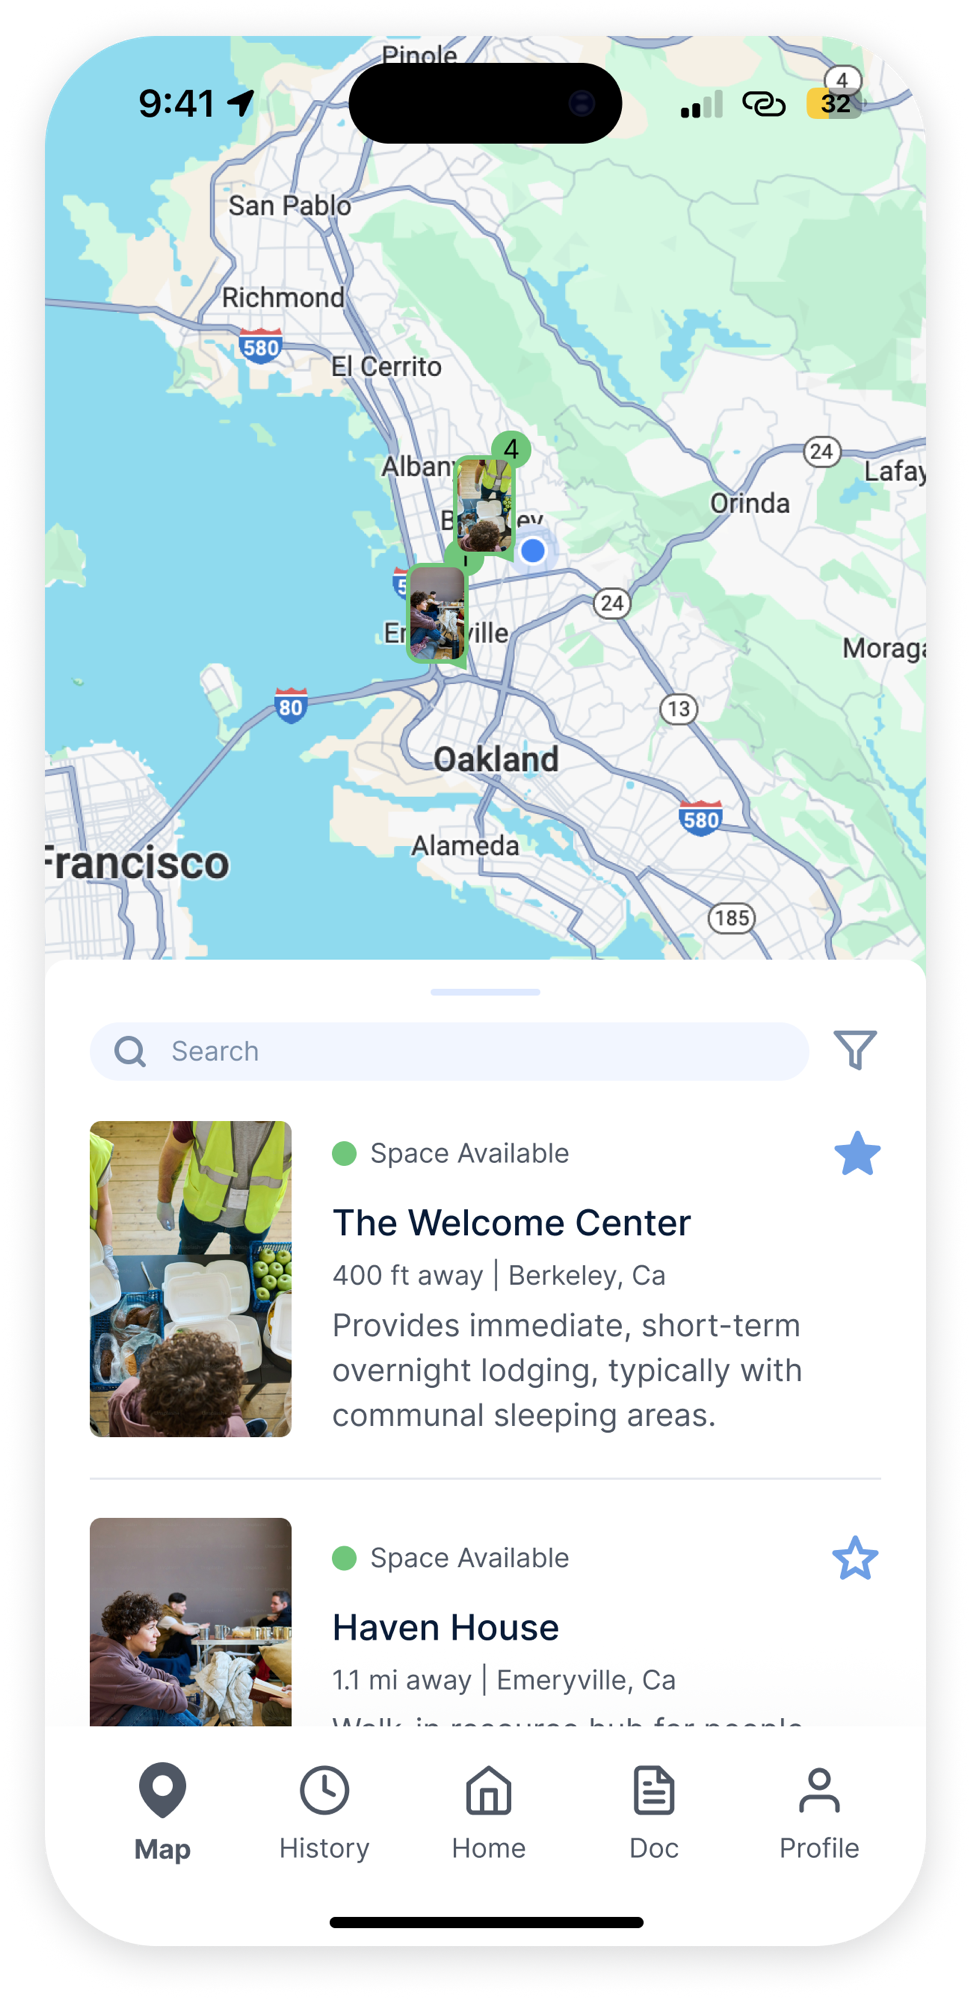
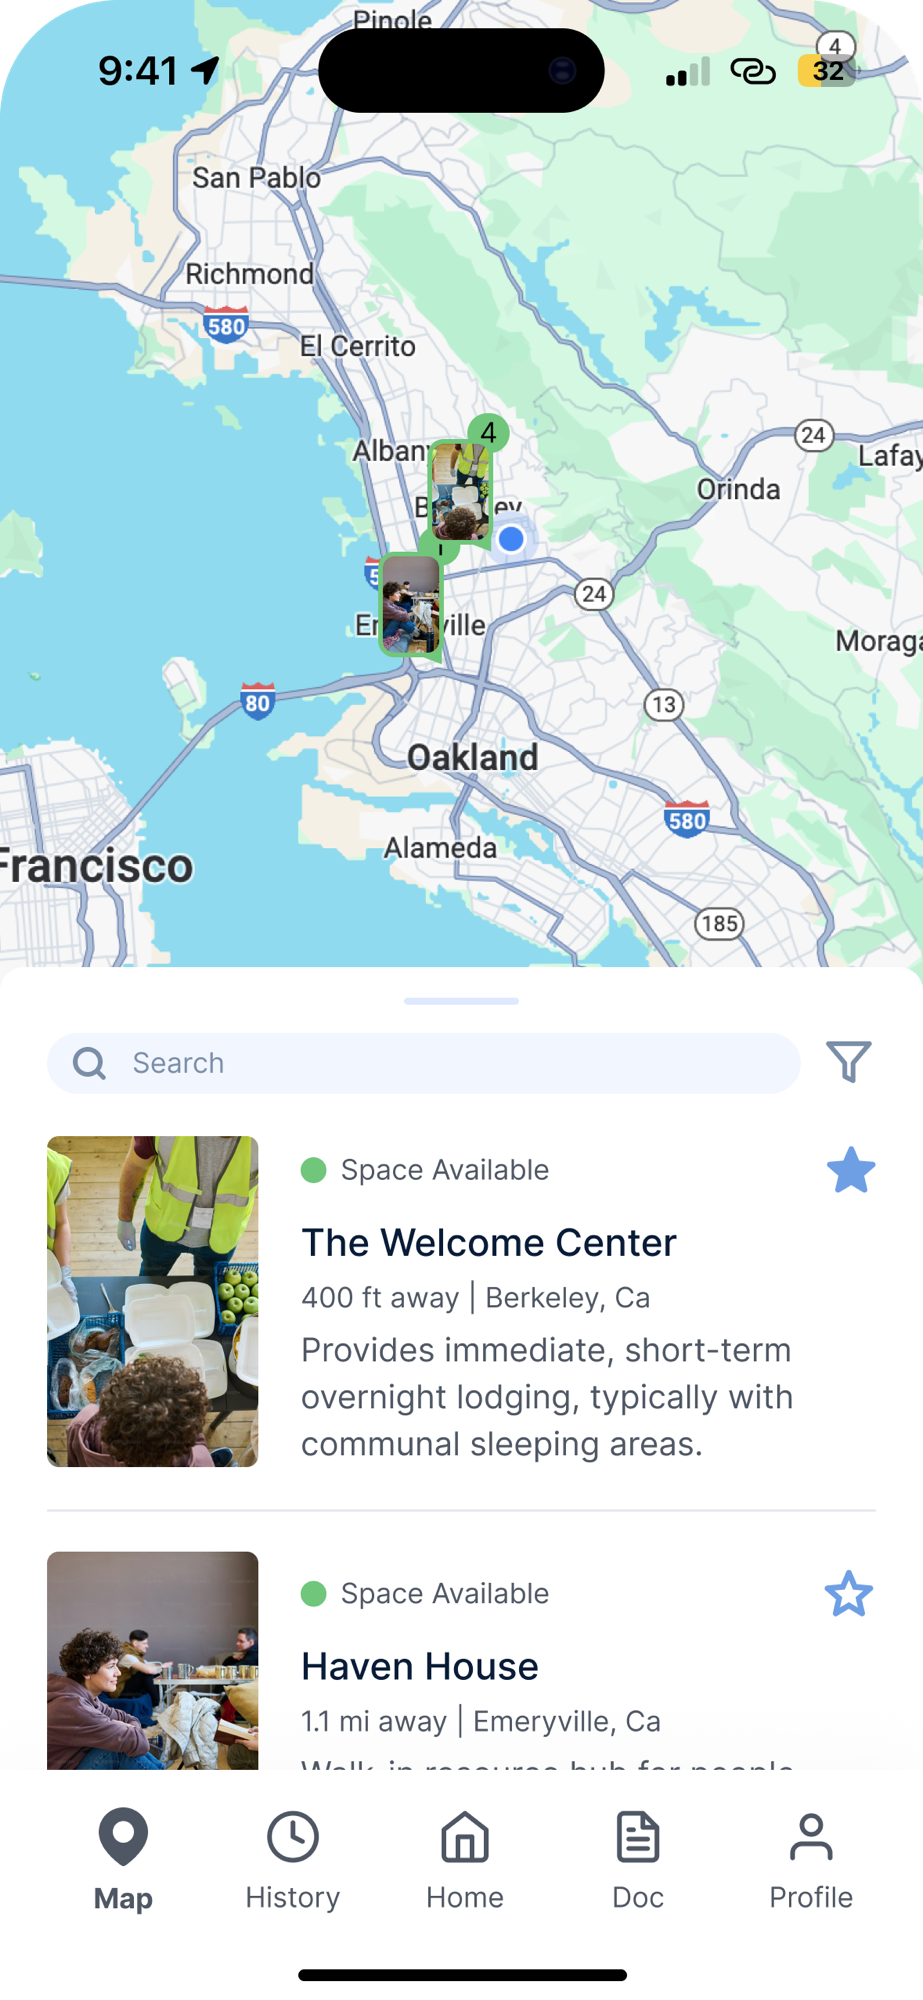
Replace IDbridge map image and add carousel thumbnails to case studies
- Replaced idbridge-map.png with new map screen showing housing resources
- Added Design Screens section to IDbridge case study with all 4 screens
- Added Design Screens section to MyShake case study with all 3 screens
- Images displayed in grid layout with descriptive labels

diff --git a/src/IDBridgeCaseStudy.tsx b/src/IDBridgeCaseStudy.tsx
@@ -16,6 +16,10 @@ import {
 } from "./components/caseStudy/CaseStudyKit";
 import IconHighlight from "./components/caseStudy/IconHighlight";
 import { CaseStudyShell, type CaseSection } from "./components/caseStudy/CaseStudyShell";
+import idbridgeThumbnail from "./assets/idbridge-thumbnail.png";
+import idbridgeDocuments from "./assets/idbridge-documents.png";
+import idbridgeHistory from "./assets/idbridge-history.png";
+import idbridgeMap from "./assets/idbridge-map.png";
 
 const SECTIONS: CaseSection[] = [
   { id: "intro", label: "Intro" },
@@ -500,6 +504,28 @@ const IDBridgeCaseStudy: FC = () => {
               <div style={{ fontFamily: tokens.font.sans, fontSize: "13px", color: tokens.color.body, lineHeight: 1.5 }}>
                 Bus routes and maps work without data connection.
               </div>
+            </div>
+          </div>
+        </Reveal>
+
+        <Callout>Design Screens</Callout>
+        <Reveal>
+          <div style={{ display: "grid", gridTemplateColumns: "repeat(4, 1fr)", gap: 16, marginBottom: 32 }}>
+            <div style={{ display: "flex", flexDirection: "column", gap: 12 }}>
+              <img src={idbridgeThumbnail} alt="Home screen" style={{ width: "100%", height: "auto", borderRadius: tokens.radius.md, border: `1px solid ${tokens.color.cardBorder}` }} />
+              <span style={{ fontFamily: tokens.font.sans, fontSize: "13px", fontWeight: tokens.weight.medium, color: tokens.color.body, textAlign: "center" }}>Home</span>
+            </div>
+            <div style={{ display: "flex", flexDirection: "column", gap: 12 }}>
+              <img src={idbridgeDocuments} alt="Documents screen" style={{ width: "100%", height: "auto", borderRadius: tokens.radius.md, border: `1px solid ${tokens.color.cardBorder}` }} />
+              <span style={{ fontFamily: tokens.font.sans, fontSize: "13px", fontWeight: tokens.weight.medium, color: tokens.color.body, textAlign: "center" }}>Documents</span>
+            </div>
+            <div style={{ display: "flex", flexDirection: "column", gap: 12 }}>
+              <img src={idbridgeHistory} alt="History screen" style={{ width: "100%", height: "auto", borderRadius: tokens.radius.md, border: `1px solid ${tokens.color.cardBorder}` }} />
+              <span style={{ fontFamily: tokens.font.sans, fontSize: "13px", fontWeight: tokens.weight.medium, color: tokens.color.body, textAlign: "center" }}>History</span>
+            </div>
+            <div style={{ display: "flex", flexDirection: "column", gap: 12 }}>
+              <img src={idbridgeMap} alt="Map screen" style={{ width: "100%", height: "auto", borderRadius: tokens.radius.md, border: `1px solid ${tokens.color.cardBorder}` }} />
+              <span style={{ fontFamily: tokens.font.sans, fontSize: "13px", fontWeight: tokens.weight.medium, color: tokens.color.body, textAlign: "center" }}>Map</span>
             </div>
           </div>
         </Reveal>

diff --git a/src/MyShakeCaseStudy.tsx b/src/MyShakeCaseStudy.tsx
@@ -36,6 +36,8 @@ import DesignPrinciples from "./components/caseStudy/DesignPrinciples";
 import { useInView } from "./components/caseStudy/useInView";
 import { CaseStudyShell, type CaseSection } from "./components/caseStudy/CaseStudyShell";
 import myshakeThumbnail from "./assets/myshake-thumbnail.png";
+import myshakeAlert from "./assets/myshake-alert.png";
+import myshakeDetails from "./assets/myshake-details.png";
 import myshakeBeforeScreens from "./assets/myshake-before-screens.png";
 import myshakeDesignSystem from "./assets/myshake-design-system.png";
 import myshakeStoryboard from "./assets/myshake-storyboard.png";
@@ -707,6 +709,24 @@ const MyShakeCaseStudy: FC = () => {
           This strategic change guarantees a seamless, life-critical experience and meaningfully lowers stress
           during a crisis.
         </Paragraph>
+
+        <Callout>Design Screens</Callout>
+        <Reveal>
+          <div style={{ display: "grid", gridTemplateColumns: "repeat(3, 1fr)", gap: 16, marginBottom: 32 }}>
+            <div style={{ display: "flex", flexDirection: "column", gap: 12 }}>
+              <img src={myshakeThumbnail} alt="Pinned locations screen" style={{ width: "100%", height: "auto", borderRadius: tokens.radius.md, border: `1px solid ${tokens.color.cardBorder}` }} />
+              <span style={{ fontFamily: tokens.font.sans, fontSize: "13px", fontWeight: tokens.weight.medium, color: tokens.color.body, textAlign: "center" }}>Pinned Locations</span>
+            </div>
+            <div style={{ display: "flex", flexDirection: "column", gap: 12 }}>
+              <img src={myshakeAlert} alt="Earthquake alert screen" style={{ width: "100%", height: "auto", borderRadius: tokens.radius.md, border: `1px solid ${tokens.color.cardBorder}` }} />
+              <span style={{ fontFamily: tokens.font.sans, fontSize: "13px", fontWeight: tokens.weight.medium, color: tokens.color.body, textAlign: "center" }}>Alert Notifications</span>
+            </div>
+            <div style={{ display: "flex", flexDirection: "column", gap: 12 }}>
+              <img src={myshakeDetails} alt="Detailed information screen" style={{ width: "100%", height: "auto", borderRadius: tokens.radius.md, border: `1px solid ${tokens.color.cardBorder}` }} />
+              <span style={{ fontFamily: tokens.font.sans, fontSize: "13px", fontWeight: tokens.weight.medium, color: tokens.color.body, textAlign: "center" }}>Details</span>
+            </div>
+          </div>
+        </Reveal>
       </section>
 
       {/* Reflection */}
